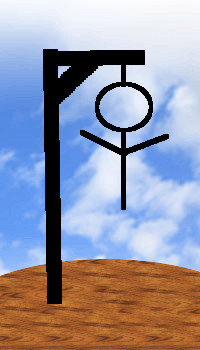
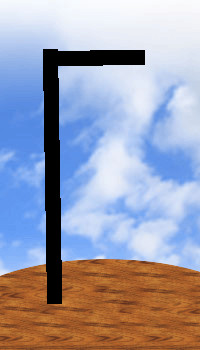
Arreglo unas cosas

Changed region(s): [[0.39, 0.1714, 0.84, 0.6], [0.27, 0.1714, 0.48, 0.3143]]

diff --git a/MainWindow.xaml b/MainWindow.xaml
@@ -16,21 +16,26 @@
             <Setter Property="Margin"
                     Value="5"></Setter>
         </Style>
+        <Style TargetType="TextBlock">
+            <Setter Property="FontSize"
+                    Value="40"></Setter>
+        </Style>
     </Window.Resources>
     <DockPanel>
         <TextBlock DockPanel.Dock="Top"
-                   FontSize="40"
                    TextAlignment="Center"> 
             Ahorcado
         </TextBlock>
         <StackPanel DockPanel.Dock="Bottom" 
                     Orientation="Horizontal">
-            <Button Click="Button_Click">Nueva partida</Button>
-            <Button Click="Button_Click_1">Rendirse</Button>
+            <Button Click="Button_Click"
+                    IsDefault="True">Nueva partida</Button>
+            <Button Click="Button_Click_1"
+                    IsCancel="True">Rendirse</Button>
         </StackPanel>
         <Grid DockPanel.Dock="Left">
             <Image x:Name="Imagen_Image"
-                   Source="./assets/0.jpg"></Image>
+                   Source="./assets/10.jpg"></Image>
         </Grid>
         <DockPanel>
             <ScrollViewer HorizontalScrollBarVisibility="Visible"

diff --git a/MainWindow.xaml.cs b/MainWindow.xaml.cs
@@ -30,13 +30,13 @@ namespace Ahorcado
             
         }
 
-        public void IniciarPartida()
+        public void IniciarPartida() //Pongo todo para empezar una partida nueva
         {
             vidas = 10;
             letrasAcertadas = 0;
             BitmapImage imagen = new BitmapImage();
             imagen.BeginInit();
-            imagen.UriSource = new Uri("./assets/0.jpg", UriKind.Relative);
+            imagen.UriSource = new Uri("./assets/10.jpg", UriKind.Relative);
             imagen.EndInit();
             Imagen_Image.Source = imagen;
             Palabra_StackPanel.Children.Clear();
@@ -96,122 +96,87 @@ namespace Ahorcado
             vidas--;
             BitmapImage imagen = new BitmapImage();
             imagen.BeginInit();
-            string rutaImagen = "";
-            switch(vidas)
-            {
-                case 10:
-                    {
-                        rutaImagen = "./assets/0.jpg";
-                        
-                        break;
-                    }
-                case 9:
-                    {
-                        rutaImagen = "./assets/1.jpg";
-                        break;
-                    }
-                case 8:
-                    {
-                        rutaImagen = "./assets/2.jpg";
-                        break;
-                    }
-                case 7:
-                    {
-                        rutaImagen = "./assets/3.jpg";
-                        break;
-                    }
-                case 6:
-                    {
-                        rutaImagen = "./assets/4.jpg";
-                        break;
-                    }
-                case 5:
-                    {
-                        rutaImagen = "./assets/5.jpg";
-                        break;
-                    }
-                case 4:
-                    {
-                        rutaImagen = "./assets/6.jpg";
-                        break;
-                    }
-                case 3:
-                    {
-                        rutaImagen = "./assets/7.jpg";
-                        break;
-                    }
-                case 2:
-                    {
-                        rutaImagen = "./assets/8.jpg";
-                        break;
-                    }
-                case 1:
-                    {
-                        rutaImagen = "./assets/9.jpg";
-                        break;
-                    }
-                case 0:
-                    {
-                        rutaImagen = "./assets/10.jpg";
-                        break;
-                    }
-            }
-            imagen.UriSource = new Uri(rutaImagen, UriKind.Relative);//cambio la foto del ahorcado acorde a las vidas
+            string rutaImagen = "./assets/" + vidas + ".jpg"; //cambio la foto del ahorcado acorde a las vidas
+            imagen.UriSource = new Uri(rutaImagen, UriKind.Relative);
             imagen.EndInit();
             Imagen_Image.Source = imagen;
             if (vidas == 0) //Ejecuto la parte de perder la partida
             {
-                for(int i = 0; i < Letras_UniformGrid.Children.Count; i++)
-                {
-                    Button botonLetra = (Button) Letras_UniformGrid.Children[i];
-                    botonLetra.IsEnabled = false;
-                }
-                MessageBox.Show("Has perdido");
+                DesactivarBotones();
+                MessageBox.Show("Has perdido", "Fin de la partida");
             }
         }
 
-        private void Button_Click_Letras(object sender, RoutedEventArgs e)
+        private void Button_Click_Letras(object sender, RoutedEventArgs e) 
         {
             Button boton = (Button) sender;
+            LogicaLetras(boton);
+        }
+
+        private void LogicaLetras(Button boton) //Logica de las letras
+        {
             boton.IsEnabled = false;
             char letra = boton.Tag.ToString()[0];
             char[] letrasPalabra = palabra.ToCharArray();
             bool acertado = false;
-            for(int i = 0; i < letrasPalabra.Length; i++)
+            for (int i = 0; i < letrasPalabra.Length; i++)
             {
-                if(letra == letrasPalabra[i])
+                if (letra == letrasPalabra[i])
                 {
-                    DockPanel dockPanelPalabra = (DockPanel) Palabra_StackPanel.Children[i];
-                    TextBlock textBoxLetra = (TextBlock) dockPanelPalabra.Children[1];
+                    DockPanel dockPanelPalabra = (DockPanel)Palabra_StackPanel.Children[i];
+                    TextBlock textBoxLetra = (TextBlock)dockPanelPalabra.Children[1];
                     textBoxLetra.Text = letra.ToString();
                     acertado = true;
                     letrasAcertadas++;
                 }
             }
-            if(!acertado)
+            if (!acertado)
             {
                 FallarLetra();
             }
-            if(letrasAcertadas == letrasPalabra.Length)
+            if (letrasAcertadas == letrasPalabra.Length)
             {
-                MessageBox.Show("Has ganado");
+                DesactivarBotones();
+                MessageBox.Show("Has ganado", "Fin de la parida");
             }
         }
 
         private void Button_Click_1(object sender, RoutedEventArgs e)//Boton de rendirse
         {
             char[] letrasPalabra = palabra.ToCharArray();
-            for(int i = 0; i < letrasPalabra.Length; i++)
+            for(int i = 0; i < letrasPalabra.Length; i++) //Muestro la palabra a adivinar
             {
                 DockPanel dockPanelPalabra = (DockPanel)Palabra_StackPanel.Children[i];
                 TextBlock textBoxLetra = (TextBlock)dockPanelPalabra.Children[1];
                 textBoxLetra.Text = letrasPalabra[i].ToString();
             }
+            DesactivarBotones();
         }
 
         private void WindowKeyDown(object sender, KeyEventArgs e) //Metodo para activar las teclas pulsando el teclado
         {
-            //hacer el metodo de las teclas para pulsar
+            Key tecla = e.Key;
+            UIElementCollection letras = Letras_UniformGrid.Children;
+            for(int i = 0; i <  letras.Count; i++) //Recorro todos los botones y si su tag coincide con el boton activo ese boton
+            {
+                Button botonLetra = (Button)letras[i];
+                if(botonLetra.Tag.ToString() == tecla.ToString())
+                {
+                    if (botonLetra.IsEnabled)//Compruebo que el boton que voy a pulsar no este desactivado para no volver a pulsarlo
+                    {
+                        LogicaLetras(botonLetra);
+                    }
+                }
+            }
+        }
+
+        private void DesactivarBotones()
+        {
+            for (int i = 0; i < Letras_UniformGrid.Children.Count; i++)
+            {
+                Button botonLetra = (Button)Letras_UniformGrid.Children[i];
+                botonLetra.IsEnabled = false;
+            }
         }
     }
 }
